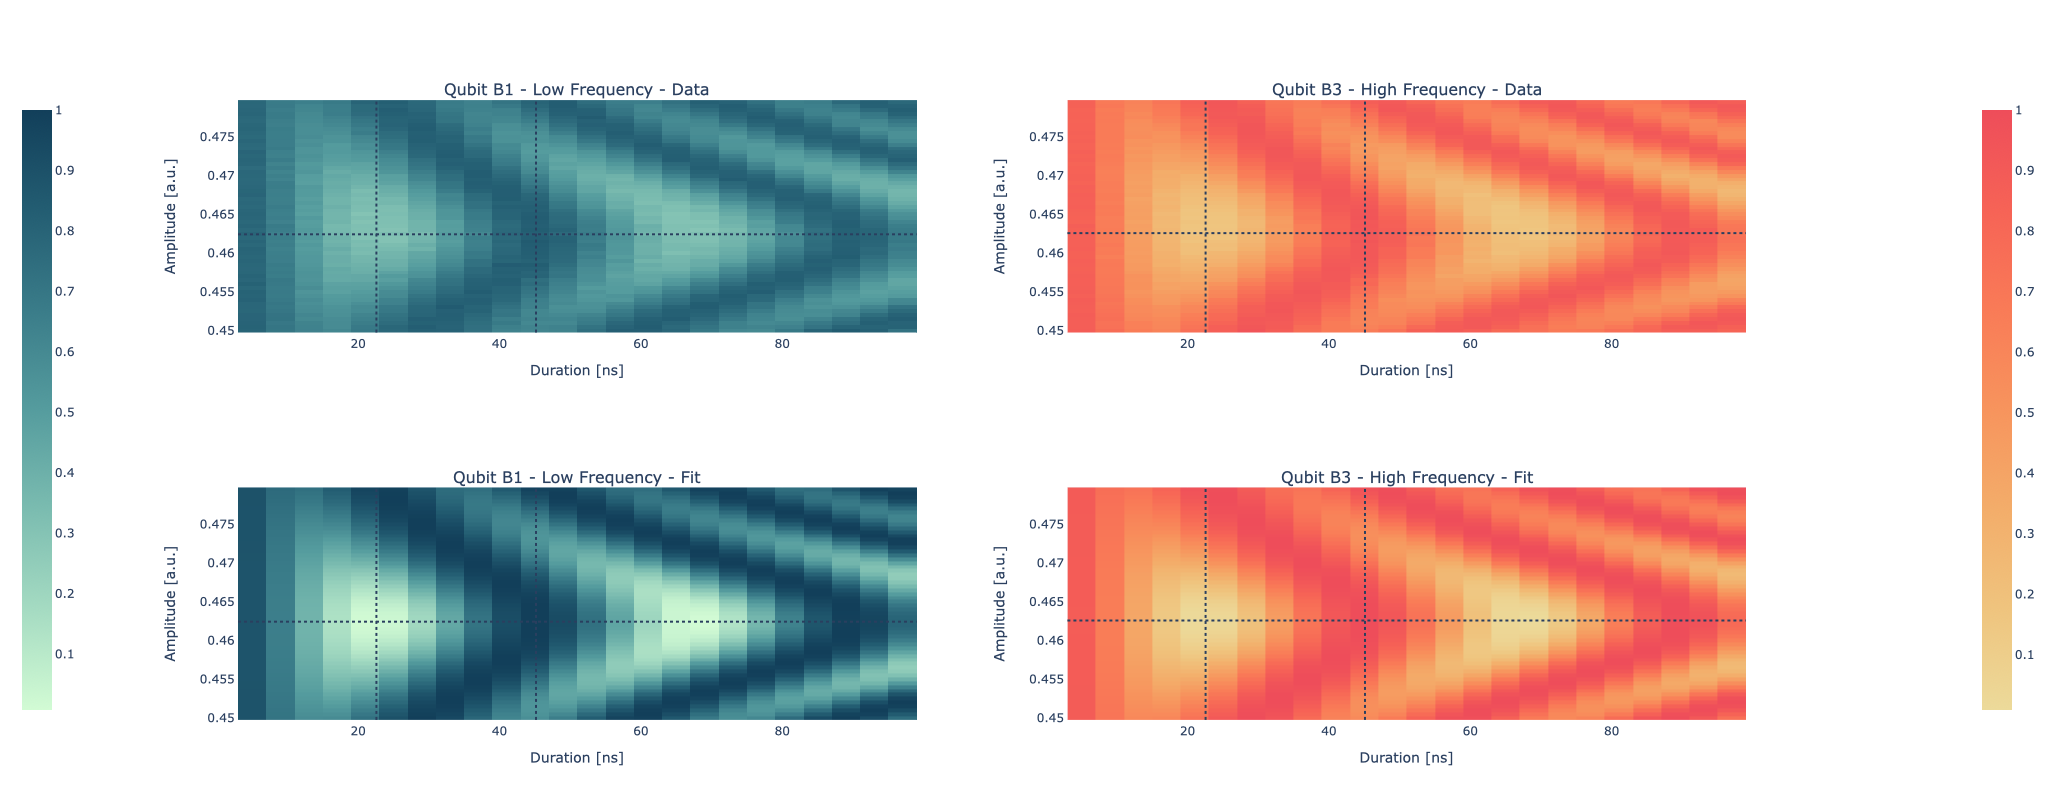
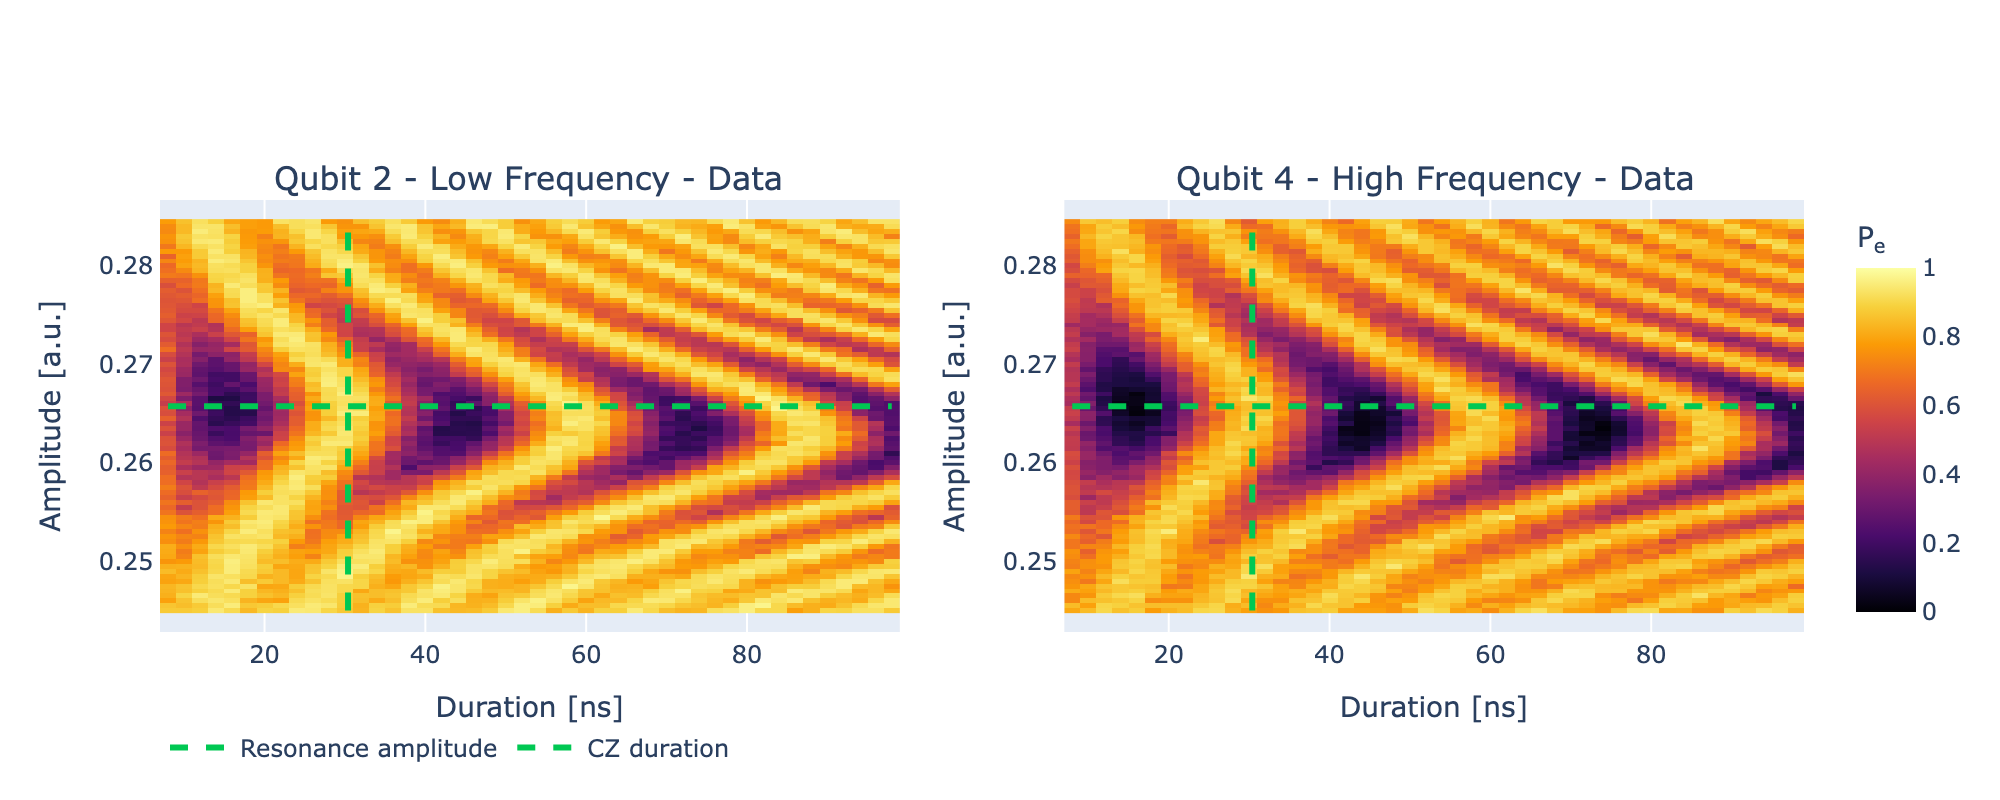
update chevron docs

diff --git a/doc/source/protocols/chevron.rst b/doc/source/protocols/chevron.rst
@@ -16,14 +16,19 @@ The expected population oscillation pattern follows:
 
 where :math:`\Delta=\omega_1 - \omega_2`, :math:`g` is the coupling constant for the two qubits and :math:`\phi` takes into account flux distortions.
 
-The gate parameters are extracted from the first oscillation of the population. The two
-readouts are combined with weights given by their contrast, since a readout whose qubit
-ends in :math:`\ket{2}` carries no signal when only two states are discriminated. The
-resonance amplitude is where the first population exchange is largest among the
-amplitudes at which the population returns. A cosine fitted along the resonance column
-over the first oscillation gives the times of the first full exchange and of the first
-return of the population. The gate duration is the first return for CZ and the first
-exchange for iSWAP.
+The gate parameters are extracted from the first population oscillation. The chevrons of
+the two qubits are averaged, weighted by their signal-to-noise ratio (SNR). Among the
+amplitudes where the population returns, the resonance amplitude is the centre of the
+band with the deepest first exchange. A cosine fit along the resonance column yields the
+times of the first full exchange and of the first return. The gate duration is the first
+return for CZ and the first exchange for iSWAP.
+
+.. note::
+
+    A binary :math:`\ket{0}`/:math:`\ket{1}` classifier may assign :math:`\ket{2}`
+    to :math:`\ket{1}`, in which case the chevron of the qubit excited to
+    :math:`\ket{2}` shows no population exchange. Its SNR then falls below threshold and
+    it receives zero weight.
 
 The pulse sequence used to calibrate the CZ gate is the same as the one for the iSWAP gate, with the addition of an initial :math:`\pi` pulse applied to the qubit with the lower frequency so that both qubits are initially prepared in the :math:`\ket{1}`. With this sequence the CZ gate is implemented leveraging the avoided crossing between the states :math:`\ket{11}` and :math:`\ket{20}`.
 
@@ -44,29 +49,30 @@ Below is an example runcard for this experiment.
     - id: chevron
       operation: chevron
       parameters:
-        amplitude_max: 0.48
-        amplitude_min: 0.45
+        amplitude_max: 0.285
+        amplitude_min: 0.245
         amplitude_step: 0.0005
         duration_max: 100
-        duration_min: 5
-        duration_step: 4
+        duration_min: 8
+        duration_step: 2
         relaxation_time: 50000
 
 The expected output is the following:
 
 .. image:: chevron.png
 
-The plot represents the probability of measuring qubit 1 in the excited state as a function of the flux pulse parameters.
+The plot represents the probability of measuring each qubit in the excited state as a function of the flux pulse parameters.
+The dashed lines mark the fitted resonance amplitude and gate duration.
 The characteristic shape of the plot, known as a Chevron pattern, appears as a consequence of the interaction of the two qubits through their coupling, leading to population exchange.
 
 Before running the Chevron routine it may be useful to run a Cryoscope experiment in order to correct possible distortions in the flux pulse.
 
 
 Chevron with signal
-===================
+^^^^^^^^^^^^^^^^^^^
 
 If the readout fidelity is not high enough, it is possible to run the experiment by measuring the acquired signal.
-The data are later normalized between 0 and 1. Here is a possible runcard with the corresponding outcome.
+The data are later normalized between 0 and 1. Here is a possible runcard.
 
 
 .. code-block:: yaml
@@ -81,5 +87,3 @@ The data are later normalized between 0 and 1. Here is a possible runcard with t
         duration_min: 5
         duration_step: 4
         relaxation_time: 50000
-
-.. image:: chevron_signal.png
